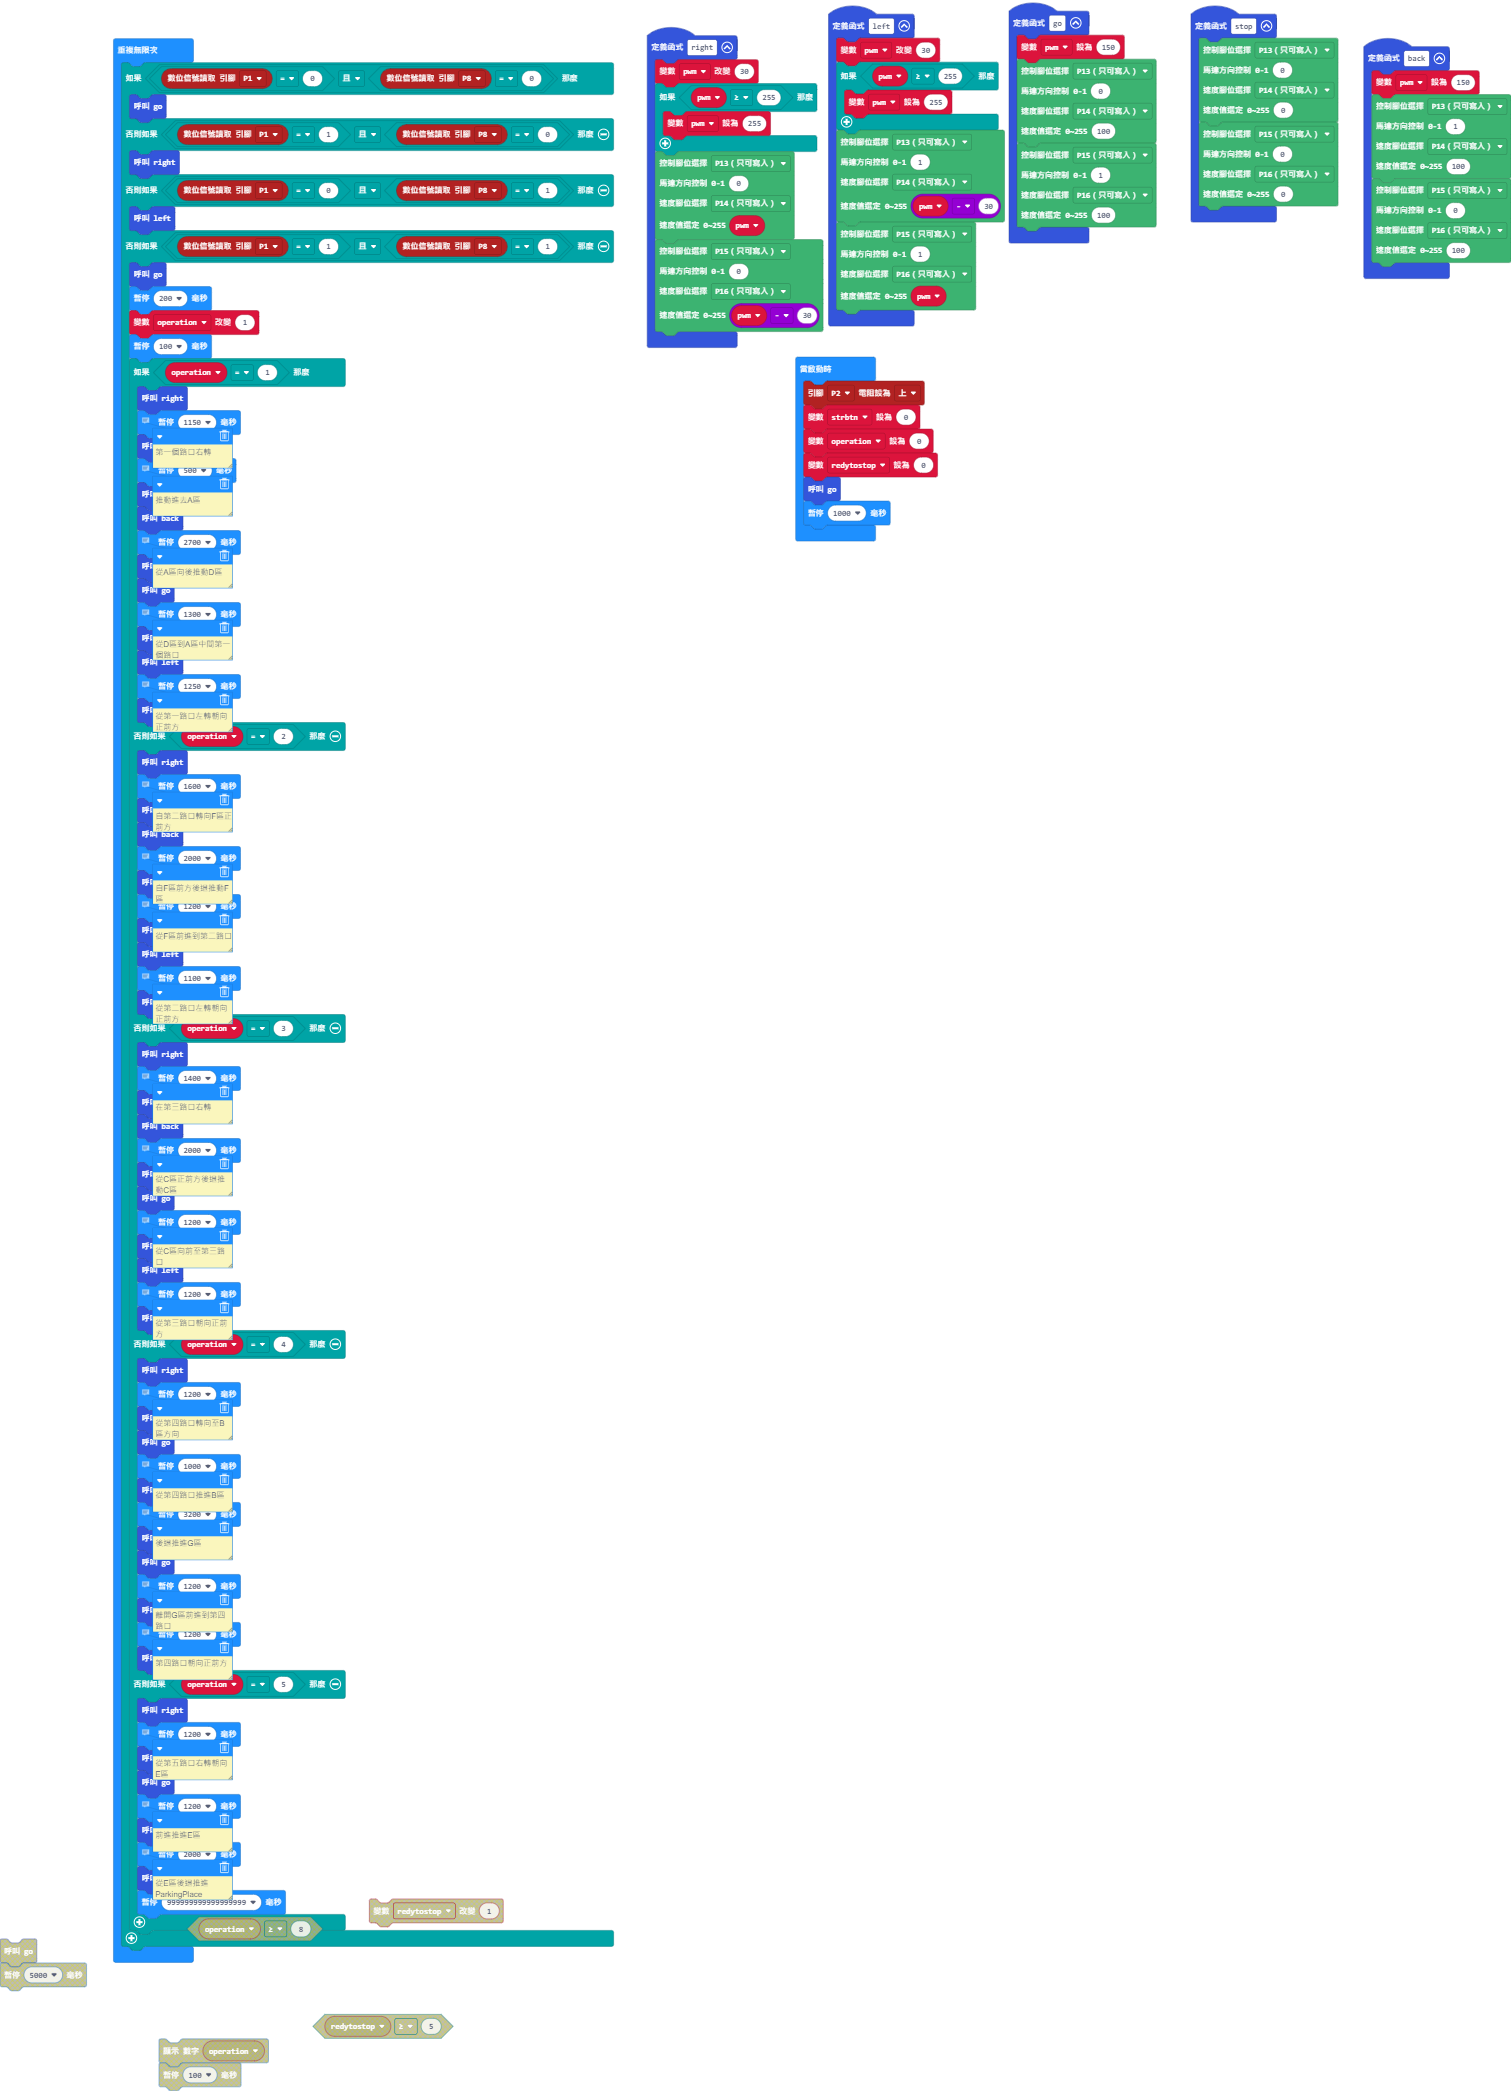
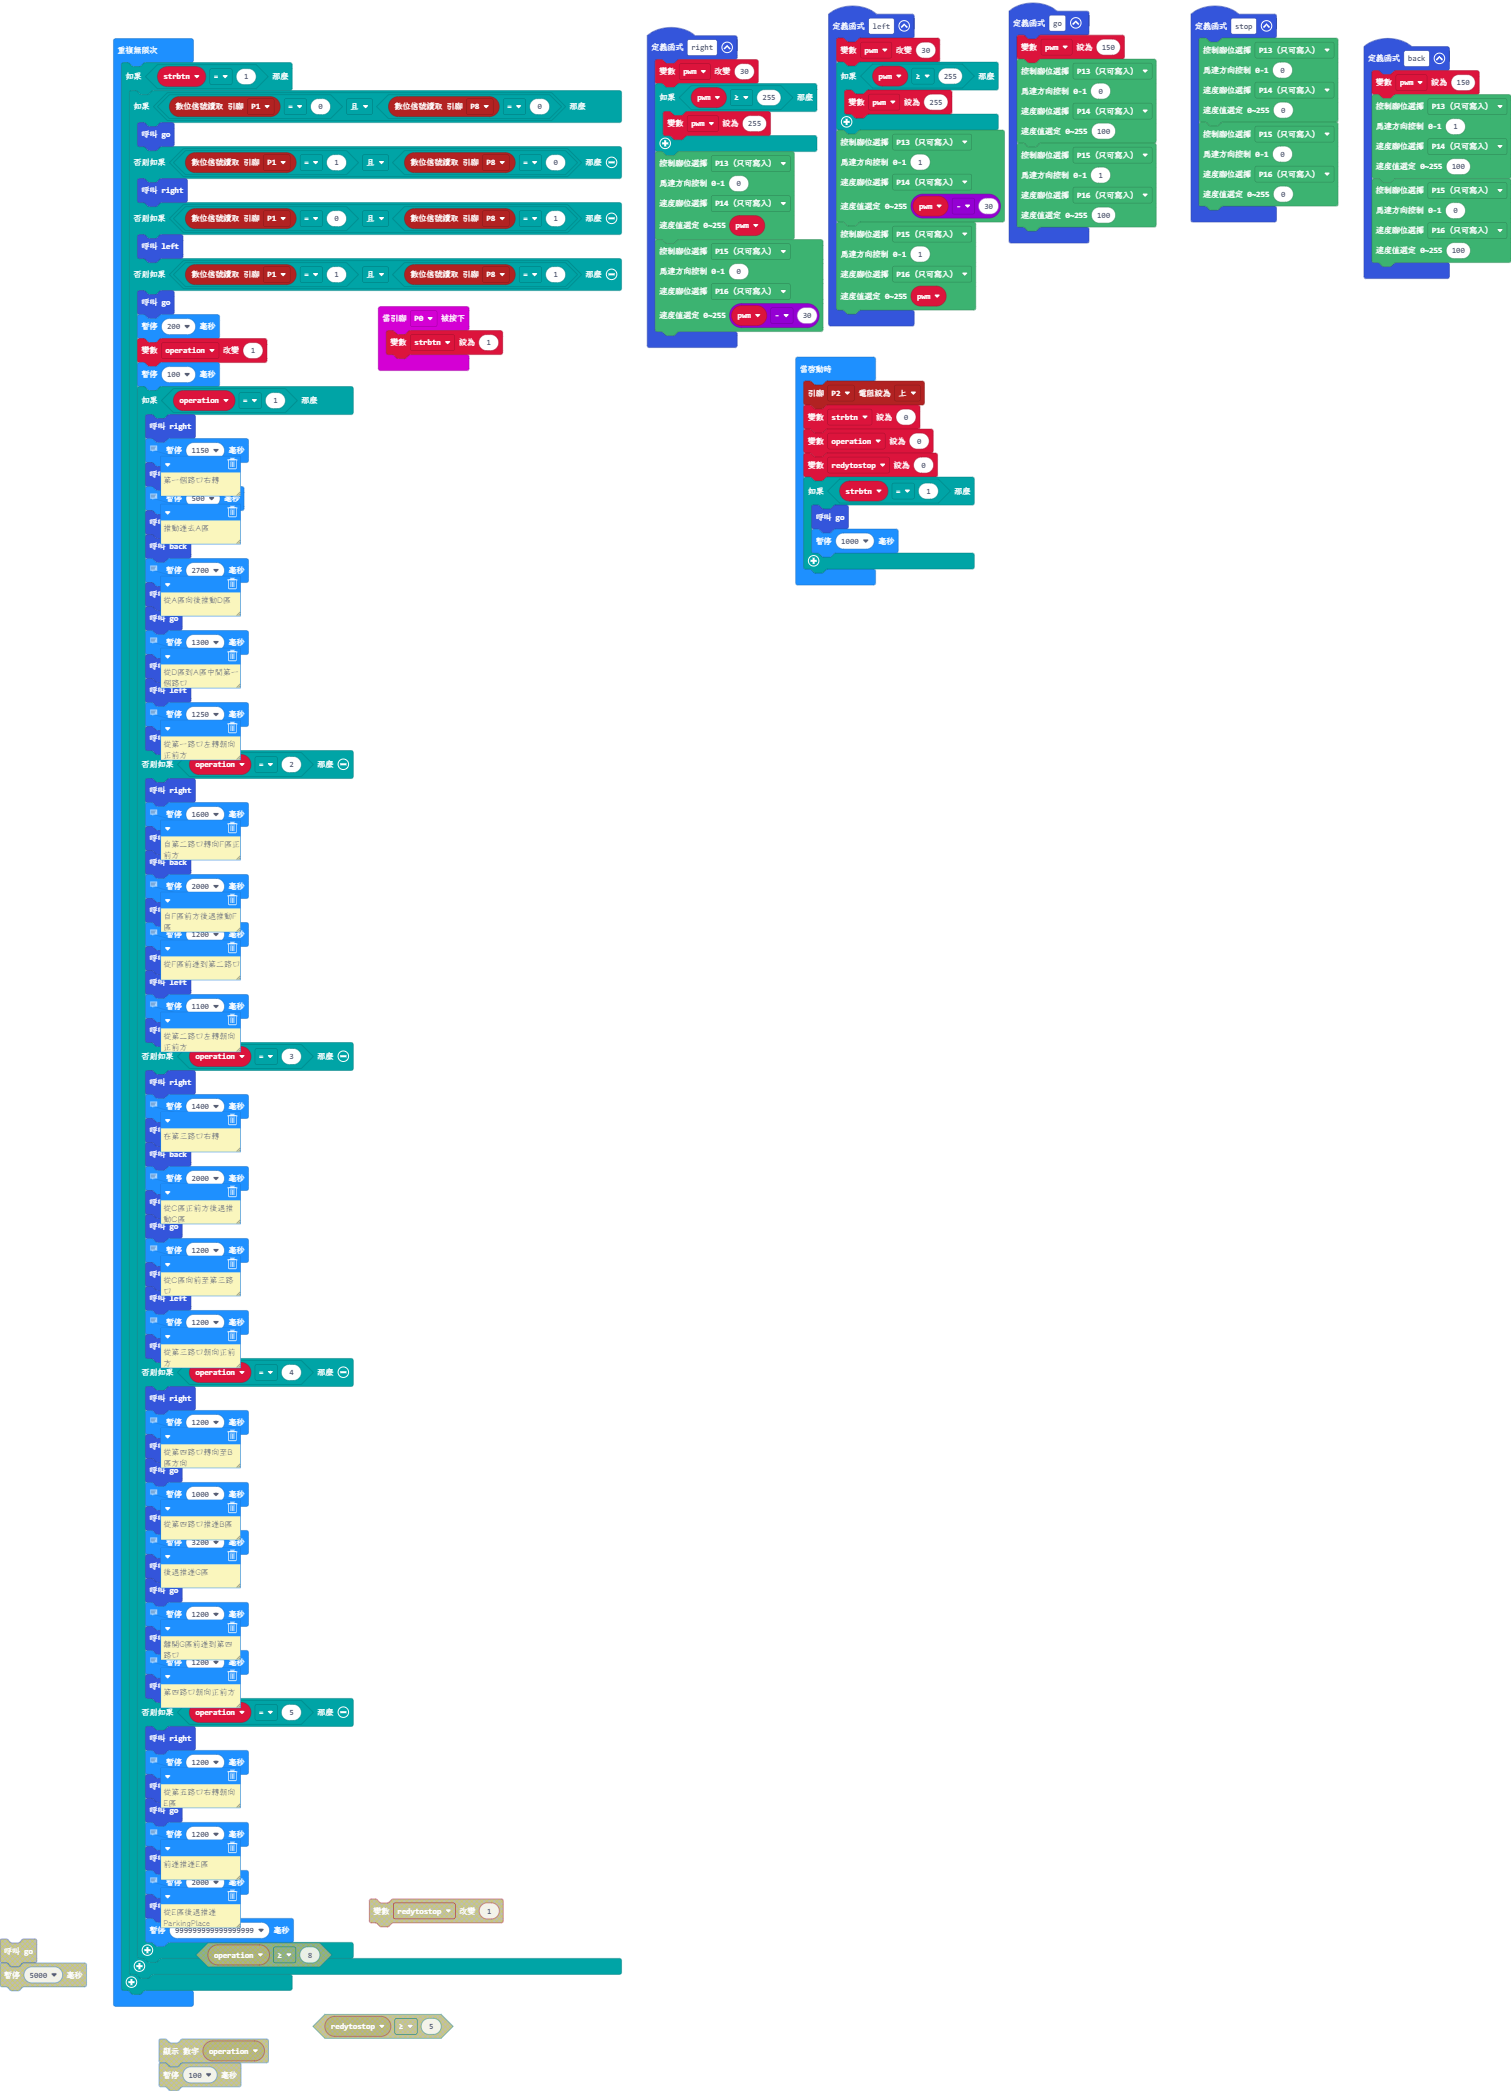
更新 main.blocks, main.ts

diff --git a/main.ts b/main.ts
@@ -16,6 +16,9 @@ function right () {
     pwm - 30
     )
 }
+input.onPinPressed(TouchPin.P0, function () {
+    strbtn = 1
+})
 function back () {
     pwm = 150
     sensors.DDMmotor(
@@ -79,109 +82,114 @@ function go () {
     )
 }
 let pwm = 0
-pins.setPull(DigitalPin.P2, PinPullMode.PullUp)
 let strbtn = 0
+pins.setPull(DigitalPin.P2, PinPullMode.PullUp)
+strbtn = 0
 let operation = 0
 let redytostop = 0
-go()
-basic.pause(1000)
+if (strbtn == 1) {
+    go()
+    basic.pause(1000)
+}
 basic.forever(function () {
-    if (pins.digitalReadPin(DigitalPin.P1) == 0 && pins.digitalReadPin(DigitalPin.P8) == 0) {
-        go()
-    } else if (pins.digitalReadPin(DigitalPin.P1) == 1 && pins.digitalReadPin(DigitalPin.P8) == 0) {
-        right()
-    } else if (pins.digitalReadPin(DigitalPin.P1) == 0 && pins.digitalReadPin(DigitalPin.P8) == 1) {
-        left()
-    } else if (pins.digitalReadPin(DigitalPin.P1) == 1 && pins.digitalReadPin(DigitalPin.P8) == 1) {
-        go()
-        basic.pause(200)
-        operation += 1
-        basic.pause(100)
-        if (operation == 1) {
+    if (strbtn == 1) {
+        if (pins.digitalReadPin(DigitalPin.P1) == 0 && pins.digitalReadPin(DigitalPin.P8) == 0) {
+            go()
+        } else if (pins.digitalReadPin(DigitalPin.P1) == 1 && pins.digitalReadPin(DigitalPin.P8) == 0) {
             right()
-            // 第一個路口右轉
-            basic.pause(1150)
-            go()
-            // 推動進去A區
-            basic.pause(500)
-            stop()
-            back()
-            // 從A區向後推動D區
-            basic.pause(2700)
-            stop()
-            go()
-            // 從D區到A區中間第一個路口
-            basic.pause(1300)
-            stop()
+        } else if (pins.digitalReadPin(DigitalPin.P1) == 0 && pins.digitalReadPin(DigitalPin.P8) == 1) {
             left()
-            // 從第一路口左轉朝向正前方
-            basic.pause(1250)
-            stop()
-        } else if (operation == 2) {
-            right()
-            // 自第二路口轉向F區正前方
-            basic.pause(1600)
-            stop()
-            back()
-            // 自F區前方後退推動F區
-            basic.pause(2000)
+        } else if (pins.digitalReadPin(DigitalPin.P1) == 1 && pins.digitalReadPin(DigitalPin.P8) == 1) {
             go()
-            // 從F區前進到第二路口
-            basic.pause(1200)
-            stop()
-            left()
-            // 從第二路口左轉朝向正前方
-            basic.pause(1100)
-            stop()
-        } else if (operation == 3) {
-            right()
-            // 在第三路口右轉
-            basic.pause(1400)
-            stop()
-            back()
-            // 從C區正前方後退推動C區
-            basic.pause(2000)
-            stop()
-            go()
-            // 從C區向前至第三路口
-            basic.pause(1200)
-            stop()
-            left()
-            // 從第三路口朝向正前方
-            basic.pause(1200)
-            stop()
-        } else if (operation == 4) {
-            right()
-            // 從第四路口轉向至B區方向
-            basic.pause(1200)
-            stop()
-            go()
-            // 從第四路口推進B區
-            basic.pause(1000)
-            back()
-            // 後退推進G區
-            basic.pause(3200)
-            stop()
-            go()
-            // 離開G區前進到第四路口
-            basic.pause(1200)
-            left()
-            // 第四路口朝向正前方
-            basic.pause(1200)
-            stop()
-        } else if (operation == 5) {
-            right()
-            // 從第五路口右轉朝向E區
-            basic.pause(1200)
-            stop()
-            go()
-            // 前進推進E區
-            basic.pause(1200)
-            back()
-            // 從E區後退推進ParkingPlace
-            basic.pause(2000)
-            stop()
-            basic.pause(999999999999999999)
+            basic.pause(200)
+            operation += 1
+            basic.pause(100)
+            if (operation == 1) {
+                right()
+                // 第一個路口右轉
+                basic.pause(1150)
+                go()
+                // 推動進去A區
+                basic.pause(500)
+                stop()
+                back()
+                // 從A區向後推動D區
+                basic.pause(2700)
+                stop()
+                go()
+                // 從D區到A區中間第一個路口
+                basic.pause(1300)
+                stop()
+                left()
+                // 從第一路口左轉朝向正前方
+                basic.pause(1250)
+                stop()
+            } else if (operation == 2) {
+                right()
+                // 自第二路口轉向F區正前方
+                basic.pause(1600)
+                stop()
+                back()
+                // 自F區前方後退推動F區
+                basic.pause(2000)
+                go()
+                // 從F區前進到第二路口
+                basic.pause(1200)
+                stop()
+                left()
+                // 從第二路口左轉朝向正前方
+                basic.pause(1100)
+                stop()
+            } else if (operation == 3) {
+                right()
+                // 在第三路口右轉
+                basic.pause(1400)
+                stop()
+                back()
+                // 從C區正前方後退推動C區
+                basic.pause(2000)
+                stop()
+                go()
+                // 從C區向前至第三路口
+                basic.pause(1200)
+                stop()
+                left()
+                // 從第三路口朝向正前方
+                basic.pause(1200)
+                stop()
+            } else if (operation == 4) {
+                right()
+                // 從第四路口轉向至B區方向
+                basic.pause(1200)
+                stop()
+                go()
+                // 從第四路口推進B區
+                basic.pause(1000)
+                back()
+                // 後退推進G區
+                basic.pause(3200)
+                stop()
+                go()
+                // 離開G區前進到第四路口
+                basic.pause(1200)
+                left()
+                // 第四路口朝向正前方
+                basic.pause(1200)
+                stop()
+            } else if (operation == 5) {
+                right()
+                // 從第五路口右轉朝向E區
+                basic.pause(1200)
+                stop()
+                go()
+                // 前進推進E區
+                basic.pause(1200)
+                back()
+                // 從E區後退推進ParkingPlace
+                basic.pause(2000)
+                stop()
+                basic.pause(999999999999999999)
+            }
         }
     }
 })
